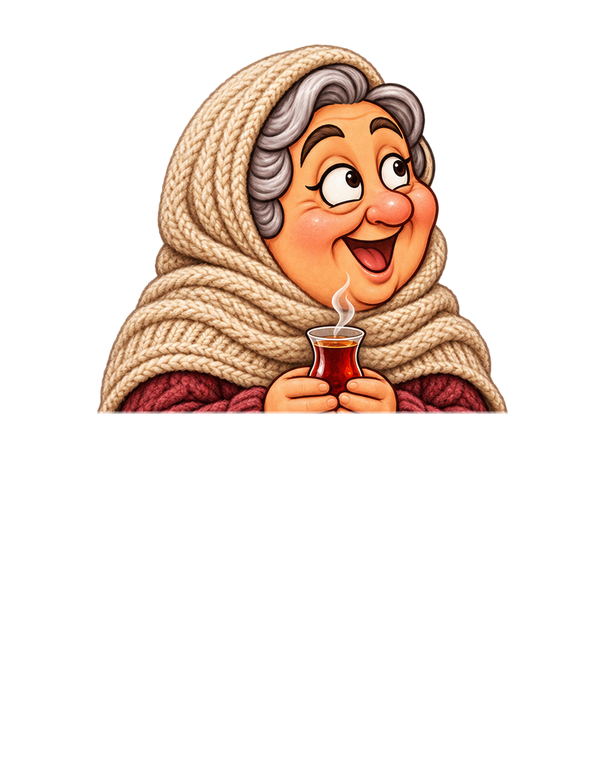
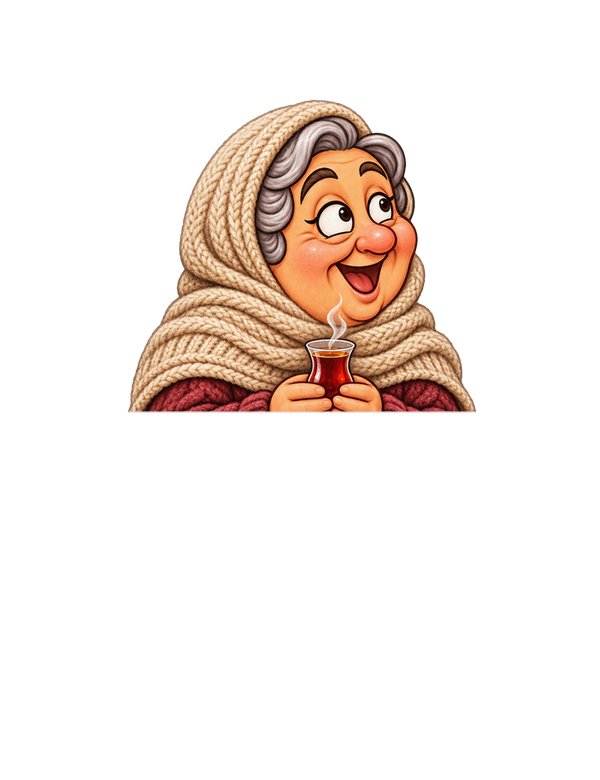
Şallı cumba teyzesini %85'e küçült (pencereye otursun)

Changed region(s): [[0.15, 0.0308, 0.84, 0.5538]]

diff --git a/frontend/app/index.tsx b/frontend/app/index.tsx
@@ -383,7 +383,7 @@ const AnimatedImage = Animated.createAnimatedComponent(Image);
 const BG_SCROLL_TEST = true as boolean;
 const BG_SCROLL_RATIO = 0.45;
 const BG_SCROLL_TILES = 4;
-const BUILD_TAG = PERF_PROBE ? "" : HOUSE_ROOF_MASK_DIAG ? "R069-B: MASKE KAPALI (cati koseleri GECICI bozuk, olcum)" : GORUNUM_REV ? (TEST_START_TOWER > 0 ? `DENEME (${TEST_START_TOWER}. KULEDEN)` : PIJAMA_TEST_EARLY ? "PIJAMA DENEME (15. KULE)" : "TUTARLILIK") : DAILY_MAP ? "DURAK v2 + GUNUN HARITASI v1" : DURAK_SEFER ? "DURAK SEFERI v2 (15 KULE)" : FAZ2_IFADE ? "FAZ2 IFADE + HALE + GAZ" : FAZ2_HALO ? "FAZ2 HALE + GAZ" : FART_TRIAL ? "GAZ DENEME v3 GERCEK SES + FAZ2" : FAZ2_DUST || FAZ2_SQUASH || CHAR_SIZE_TRIAL !== 1 ? `FAZ2 ${SFX_ON ? "SES + " : ""}TOZ+ESNEME, KARAKTER x${CHAR_SIZE_TRIAL}` : FAZ1_UI ? "FAZ1 TR ARAYUZ + G018 KONTUR" : KONTUR_PARILTI ? (HEDEF_PARILTI ? "G018 KONTUR + PARILTI" : "G018 KONTUR") : FACADE_ATLAS ? "G018 12 CEPHE + R077" : GORSEL018_TRIAL ? "G018 DENEME + R077" : BG_SCROLL_TEST ? "R077: ARKA PLAN KAYAR" : NO_IMAGE_CLIP ? "R076: GORSEL KIRPMA YOK + SYNC PROPS" : ROUNDED_CLIP_OFF ? "R071-A: KOSE KIRPMA YOK" : FRAME_DIAG ? "R068-DIAG" : "R067-B: SAYAC KAPALI";
+const BUILD_TAG = PERF_PROBE ? "" : HOUSE_ROOF_MASK_DIAG ? "R069-B: MASKE KAPALI (cati koseleri GECICI bozuk, olcum)" : GORUNUM_REV ? (TEST_START_TOWER > 0 ? `DENEME (${TEST_START_TOWER}. KULEDEN)` : PIJAMA_TEST_EARLY ? "PIJAMA DENEME (15. KULE)" : "TEYZE BOYU") : DAILY_MAP ? "DURAK v2 + GUNUN HARITASI v1" : DURAK_SEFER ? "DURAK SEFERI v2 (15 KULE)" : FAZ2_IFADE ? "FAZ2 IFADE + HALE + GAZ" : FAZ2_HALO ? "FAZ2 HALE + GAZ" : FART_TRIAL ? "GAZ DENEME v3 GERCEK SES + FAZ2" : FAZ2_DUST || FAZ2_SQUASH || CHAR_SIZE_TRIAL !== 1 ? `FAZ2 ${SFX_ON ? "SES + " : ""}TOZ+ESNEME, KARAKTER x${CHAR_SIZE_TRIAL}` : FAZ1_UI ? "FAZ1 TR ARAYUZ + G018 KONTUR" : KONTUR_PARILTI ? (HEDEF_PARILTI ? "G018 KONTUR + PARILTI" : "G018 KONTUR") : FACADE_ATLAS ? "G018 12 CEPHE + R077" : GORSEL018_TRIAL ? "G018 DENEME + R077" : BG_SCROLL_TEST ? "R077: ARKA PLAN KAYAR" : NO_IMAGE_CLIP ? "R076: GORSEL KIRPMA YOK + SYNC PROPS" : ROUNDED_CLIP_OFF ? "R071-A: KOSE KIRPMA YOK" : FRAME_DIAG ? "R068-DIAG" : "R067-B: SAYAC KAPALI";
 const DIAG_MAX_EXAMPLES = 6;
 const HOUSE_AB_FROZEN = false as boolean;
 // REVIZYON-066 experiment (one variable): expo-linear-gradient's iOS layer
